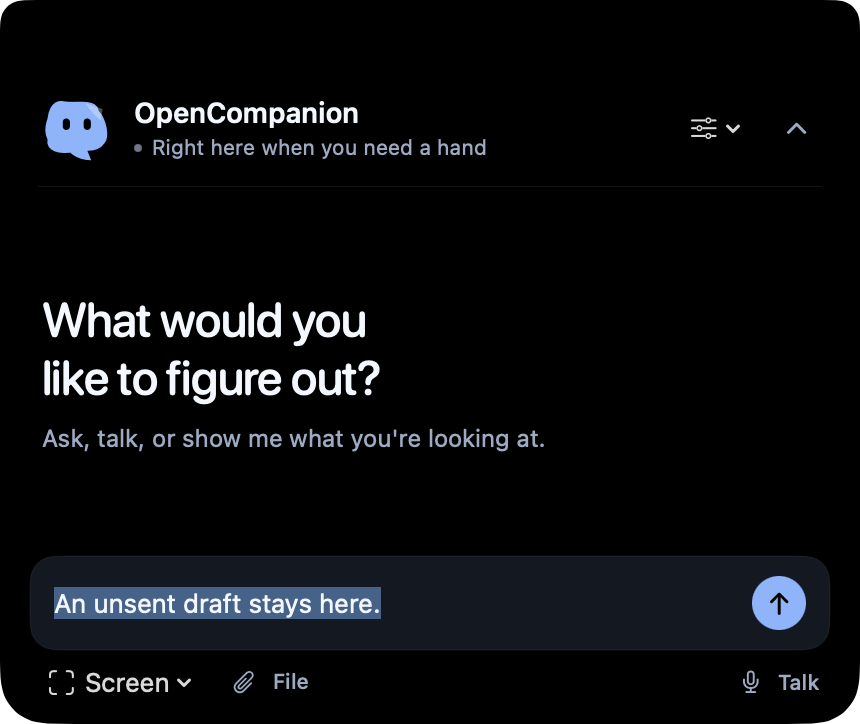
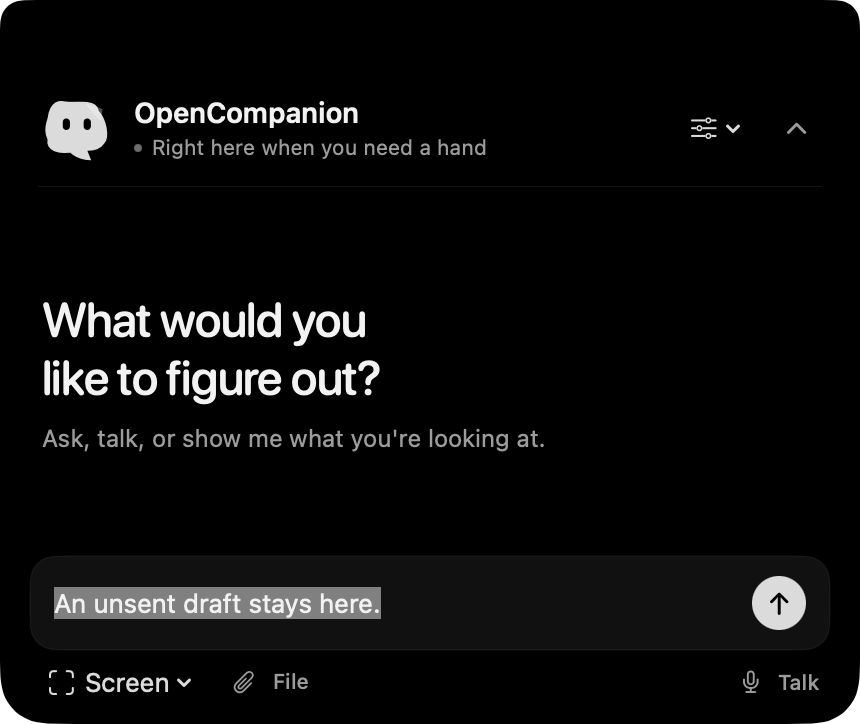
Show neutral notch UI and document permission setup

diff --git a/docs/FEATURE-STATUS.md b/docs/FEATURE-STATUS.md
@@ -7,7 +7,7 @@ Updated 3 November 2026. This is an active engineering build, not a claim of ful
 | Native app, menu bar, text invocation, stop | implemented; installed-tested (notch-only launch, expansion, text response) | Xcode application target; actual bundle launched with no workspace; AX accessible controls; live notch conversation completed. Global hotkey conflicts/Spaces need acceptance. |
 | Configurable shortcuts | implemented; automated-tested | Persistent key/modifier preferences, default ⌘⇧Space and optional ⌘⇧R capture, Escape while active. Registration reports conflicts and preserves the last working binding. Installed conflict/alternate-key acceptance pending. |
 | Companion listening/thinking/speaking, notchless fallback | implemented; automated-tested (geometry/hover/focus policy) | Idle matches the camera cutout. Synthetic panel tests missed a real-user hover failure: the exact top edge was excluded and mouse-event delivery was assumed. Closed-edge hit testing and a permission-free pointer sampler now address these paths; physical retest remains pending. The notch UI uses black and neutral grays. |
-| Deliberate screen/AX/OCR, permissions/repair | implemented; installed-tested (current display capture/exclusion) | ScreenCaptureKit excludes own app; bounded AX/OCR; native privacy settings controls. User enabled Screen Recording; included/filtered captures were visually inspected and own fixture/notch were excluded. AX is still unavailable; desktop actions, denial/revocation and multi-display acceptance remain pending. |
+| Deliberate screen/AX/OCR, permissions/repair | implemented; installed-tested (earlier identity, current display capture/exclusion) | ScreenCaptureKit excludes own app; bounded AX/OCR and native permission controls. Included/filtered captures were inspected after the earlier identity received permission. The new canonical certificate identity needs its first grants. AX actions, denial/revocation and multi-display acceptance remain pending. |
 | Coordinate transforms, stale generations | implemented; automated-tested | Negative secondary display, inverse composition, stale scene/document independence, guidance verification tests. Physical rotated/scaled displays pending. |
 | User region and vector spatial context | implemented | Explicit selector with Return/Escape and bounded vector context. Installed capture/send acceptance pending. |
 | Transparent annotations without focus theft | implemented | Separate non-key non-main click-through panel, bounded lifetime, foreground checks. Fullscreen/Spaces/focus retention installed tests pending. |

diff --git a/README.md b/README.md
@@ -24,6 +24,8 @@ Hover over the camera notch for a quick peek; move away to tuck it without losin
 
 Global voice observation needs macOS Input Monitoring or Accessibility access. Voice input also needs Microphone and Speech Recognition permission. Settings reports the installed monitor status and provides repair controls. Voice hotkey turns do not automatically capture the screen or consume selected files/screens; ordinary conversation history and the notebook remain available.
 
+If the shortcut is unavailable, choose **Set up voice** in the peek, then **Allow global voice shortcut…** in Settings. Enable the installed OpenCompanion in macOS Input Monitoring and quit/reopen it. Allow the first Microphone/Speech prompts, release the keys to interact with the prompt, then start a fresh hold.
+
 Diagrams open in a separate notebook panel while conversation stays in the notch. Streaming updates retain the same canvas and leave keyboard focus where you are working.
 
 Settings includes configurable global shortcuts and an optional display-capture shortcut. Registration conflicts are reported; the last working shortcut stays available for that session.
